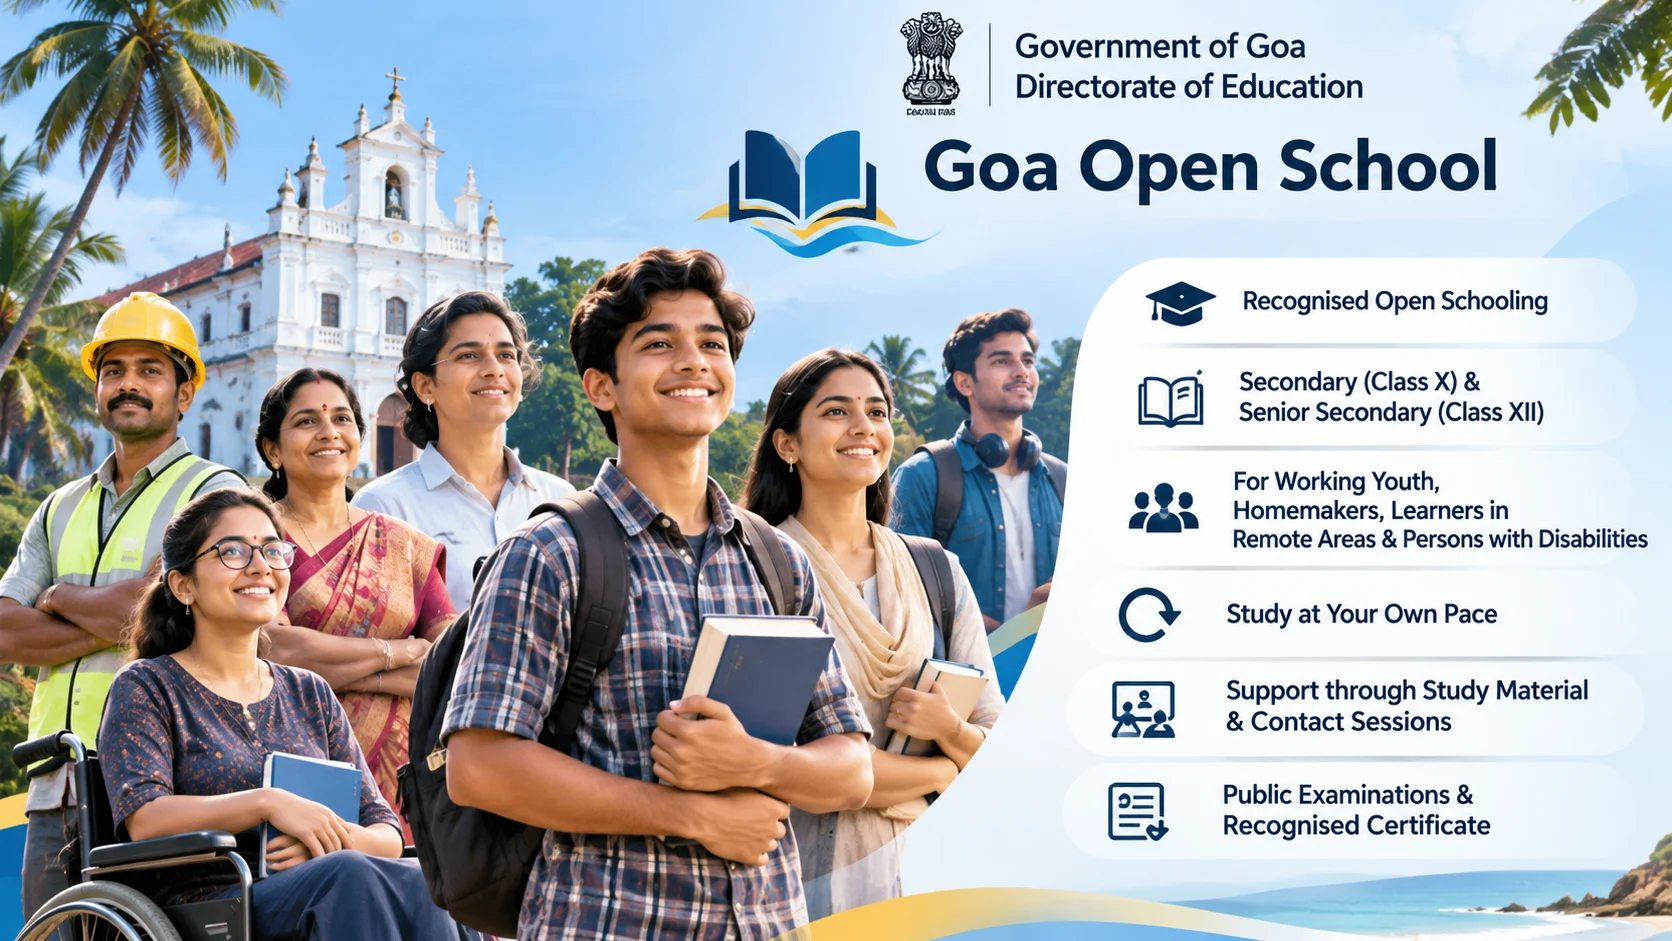
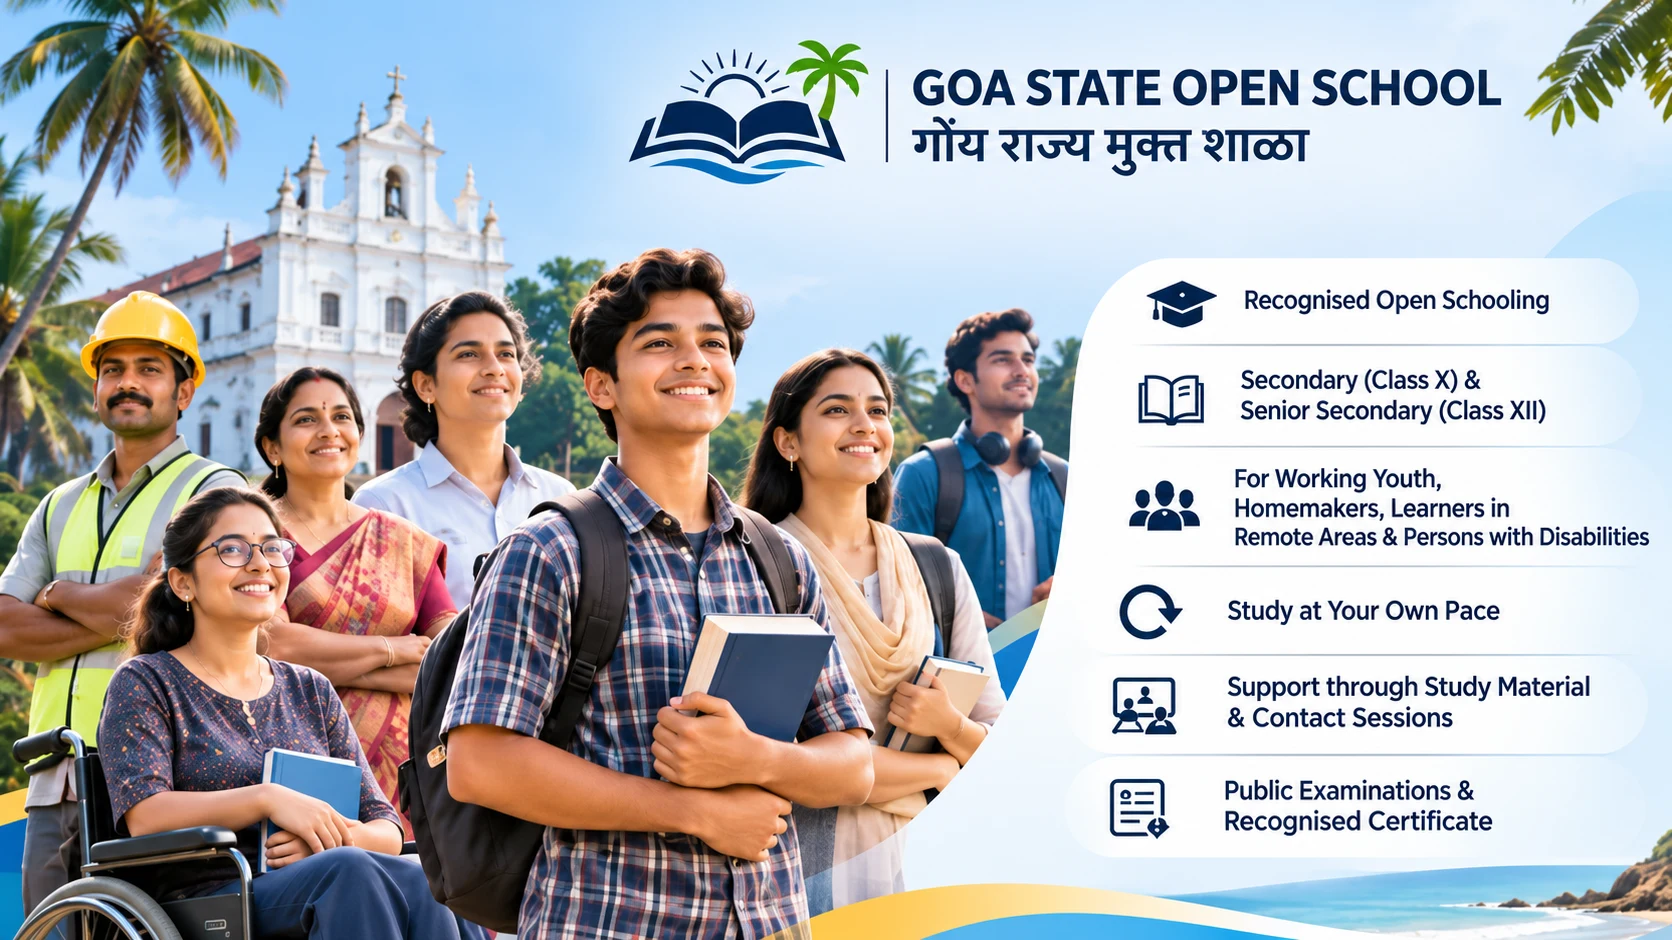
Update About images; separate Class X / XII result lookup.

diff --git a/components/ResultLookup.jsx b/components/ResultLookup.jsx
@@ -7,7 +7,11 @@ import { Loader2, Printer, Search, RotateCcw, Hash, CalendarDays, ShieldCheck } 
 import { ENROLLMENT_PATTERN as ROLL_PATTERN } from "@/lib/result-options";
 import ResultMarksheet from "@/components/ResultMarksheet";
 
-const EMPTY = { roll: "", dob: "" };
+const EMPTY = { cls: "X", roll: "", dob: "" };
+const CLASS_TABS = [
+  { value: "X", label: "Class X", sub: "Secondary" },
+  { value: "XII", label: "Class XII", sub: "Senior Secondary" },
+];
 
 function validate(v) {
   const e = {};
@@ -216,8 +220,18 @@ export default function ResultLookup() {
     if (errors[key]) setErrors((er) => ({ ...er, [key]: undefined }));
   };
 
+  // Class X and Class XII are checked separately: switching class clears the entered details
+  const chooseClass = (cls) => {
+    if (cls === values.cls) return;
+    setValues({ ...EMPTY, cls });
+    setErrors({});
+    setStatus("idle");
+    setMessage("");
+    loadCaptcha();
+  };
+
   const reset = () => {
-    setValues(EMPTY);
+    setValues((v) => ({ ...EMPTY, cls: v.cls }));
     setErrors({});
     setStatus("idle");
     setMessage("");
@@ -287,6 +301,27 @@ export default function ResultLookup() {
 
   return (
     <form onSubmit={onSubmit} noValidate className="space-y-5 p-5 sm:p-7">
+      <div role="tablist" aria-label="Select class" className="grid grid-cols-2 gap-2 rounded-lg bg-[#eef4fc] p-1.5">
+        {CLASS_TABS.map((t) => {
+          const active = values.cls === t.value;
+          return (
+            <button
+              key={t.value}
+              type="button"
+              role="tab"
+              aria-selected={active}
+              onClick={() => chooseClass(t.value)}
+              className={`rounded-md px-3 py-2.5 text-center transition ${
+                active ? "bg-navy text-white shadow-md" : "text-ink hover:bg-white"
+              }`}
+            >
+              <span className="block text-[16px] font-extrabold leading-tight">{t.label} Result</span>
+              <span className={`block text-[12.5px] font-semibold ${active ? "text-white/80" : "text-[#5b6b8c]"}`}>{t.sub}</span>
+            </button>
+          );
+        })}
+      </div>
+
       <div className="grid grid-cols-1 gap-5 sm:grid-cols-2">
         <Field label="Roll No." error={errors.roll} htmlFor="r-roll" icon={Hash}>
           <input
@@ -376,7 +411,7 @@ export default function ResultLookup() {
           className="inline-flex h-[46px] min-w-[150px] items-center justify-center gap-2 rounded-md bg-gradient-to-b from-[#2b6ae6] to-[#1048bd] px-7 text-[14.5px] font-bold text-white shadow-md shadow-blue-900/25 transition hover:brightness-110 active:translate-y-px disabled:cursor-not-allowed disabled:opacity-70"
         >
           {status === "loading" ? <Loader2 size={17} className="animate-spin" /> : <Search size={17} />}
-          {status === "loading" ? "Searching..." : "Get Result"}
+          {status === "loading" ? "Searching..." : `Get Class ${values.cls} Result`}
         </button>
         <button
           type="button"

diff --git a/app/about/page.jsx b/app/about/page.jsx
@@ -144,7 +144,19 @@ export default function AboutPage() {
         <div className="mx-auto max-w-[1320px] space-y-10 px-4 py-12 sm:px-6 lg:space-y-14 lg:py-16">
           {/* Overview */}
           <Panel icon={Landmark} title="Overview">
-            <div className="grid grid-cols-1 gap-8 p-6 sm:p-9 lg:min-h-[420px] lg:grid-cols-[1fr_1.25fr] lg:items-center lg:gap-10 lg:p-10">
+            <div className="flow-root p-6 sm:p-9 lg:p-10">
+              {/* Image floats right so the text wraps around it and no empty column is left beside the long copy */}
+              <div className="mb-6 overflow-hidden rounded-lg bg-[#dbe9f9] shadow-md ring-1 ring-black/5 lg:float-right lg:mb-6 lg:ml-10 lg:w-[56%]">
+                <Image
+                  src="/images/about-overview-v2.webp"
+                  alt="Goa State Open School: recognised open schooling for Secondary (Class X) and Senior Secondary (Class XII), for working youth, homemakers, learners in remote areas and persons with disabilities. Study at your own pace with study material and contact sessions, public examinations and a recognised certificate."
+                  width={1672}
+                  height={941}
+                  priority
+                  sizes="(min-width: 1024px) 640px, 100vw"
+                  className="h-auto w-full"
+                />
+              </div>
               <div className="space-y-5 text-[16.5px] font-medium leading-[1.8] text-ink">
                 <p className="inline-flex items-center gap-2.5 rounded-md bg-navy px-5 py-2.5 text-[18px] font-extrabold uppercase tracking-[0.16em] text-white shadow-md sm:text-[20px]">
                   <span className="h-2.5 w-2.5 rounded-full bg-sky" aria-hidden="true" /> An Autonomous Body
@@ -186,17 +198,6 @@ export default function AboutPage() {
                 <p>
                   GSOS is a self-sustained body without any financial commitment on the part of the State Government.
                 </p>
-              </div>
-              <div className="self-start overflow-hidden rounded-lg bg-[#dbe9f9] shadow-md ring-1 ring-black/5">
-                <Image
-                  src="/images/about-main.webp"
-                  alt="Goa State Open School: recognised open schooling for Secondary (Class X) and Senior Secondary (Class XII), for working youth, homemakers, learners in remote areas and persons with disabilities. Study at your own pace with study material and contact sessions, public examinations and a recognised certificate."
-                  width={1672}
-                  height={941}
-                  priority
-                  sizes="(min-width: 1024px) 640px, 100vw"
-                  className="h-auto w-full"
-                />
               </div>
             </div>
           </Panel>

diff --git a/lib/results.js b/lib/results.js
@@ -12,10 +12,14 @@ export function resultsAvailable() {
 }
 
 // The student looks the result up with the ROLL NUMBER (printed on the admit card) and the date of birth.
-export async function findResult({ rollNo, dob }) {
+// `cls` ("X" or "XII") is the class tab the student chose: Class X and Class XII results are looked up
+// separately, so a Class XII roll number never returns a result from the Class X tab (and vice versa).
+const CLASS_CATEGORY = { X: "secondary", XII: "senior_secondary" };
+
+export async function findResult({ rollNo, dob, cls: wantedCls }) {
   const { data: rows } = await supabaseAdmin
     .from("student_registrations")
-    .select("id, courses(course_code)")
+    .select("id, courses(course_code, category)")
     .eq("roll_no", rollNo)
     .eq("dob", dob)
     .eq("status", "approved")
@@ -26,6 +30,11 @@ export async function findResult({ rollNo, dob }) {
   if (!rows || rows.length !== 1) return null;
   const reg = rows[0];
   const cls = reg.courses?.course_code || "";
+
+  // the student's programme must be the class that was selected (matched by course code, or by category if the code was edited)
+  const code = String(cls).toUpperCase();
+  const matchesClass = code ? code === wantedCls : reg.courses?.category === CLASS_CATEGORY[wantedCls];
+  if (!matchesClass) return null;
 
   const { data: r } = await getResultData(reg.id, 1);
   if (!r || !r.is_published || r.final_result === "INCOMPLETE") return null;

diff --git a/app/api/result/route.js b/app/api/result/route.js
@@ -78,7 +78,10 @@ export async function POST(request) {
     const rollNo = typeof body.rollNo === "string" ? body.rollNo.trim().toUpperCase() : "";
     const dob = typeof body.dob === "string" ? body.dob.trim() : "";
 
+    const cls = typeof body.cls === "string" ? body.cls.trim().toUpperCase() : "";
+
     const errors = {};
+    if (cls !== "X" && cls !== "XII") errors.cls = "Select Class X or Class XII.";
     if (!ROLL_PATTERN.test(rollNo)) errors.roll = "Enter a valid roll number.";
     if (!isValidDob(dob)) errors.dob = "Enter a valid date of birth.";
     if (Object.keys(errors).length) return json({ ok: false, errors }, 400);
@@ -91,11 +94,11 @@ export async function POST(request) {
       return json({ ok: false, error: "Online results will be available soon. Please check back later." }, 503);
     }
 
-    const result = await findResult({ rollNo, dob });
+    const result = await findResult({ rollNo, dob, cls });
     if (!result) {
       // one generic message for every mismatch, so details cannot be probed
       return json(
-        { ok: false, error: "No result found for the details entered. Please check them and try again." },
+        { ok: false, error: `No Class ${cls} result found for the details entered. Please check the class, roll number and date of birth and try again.` },
         404,
       );
     }

diff --git a/app/result/page.jsx b/app/result/page.jsx
@@ -16,6 +16,7 @@ export const metadata = {
 };
 
 const instructions = [
+  "Select your class: Class X and Class XII results are checked separately.",
   "Enter your Roll Number exactly as printed on your Admit Card.",
   "Enter your Date of Birth as given in your admission form.",
   "Click \"Get Result\". You can print the result sheet for your reference.",
